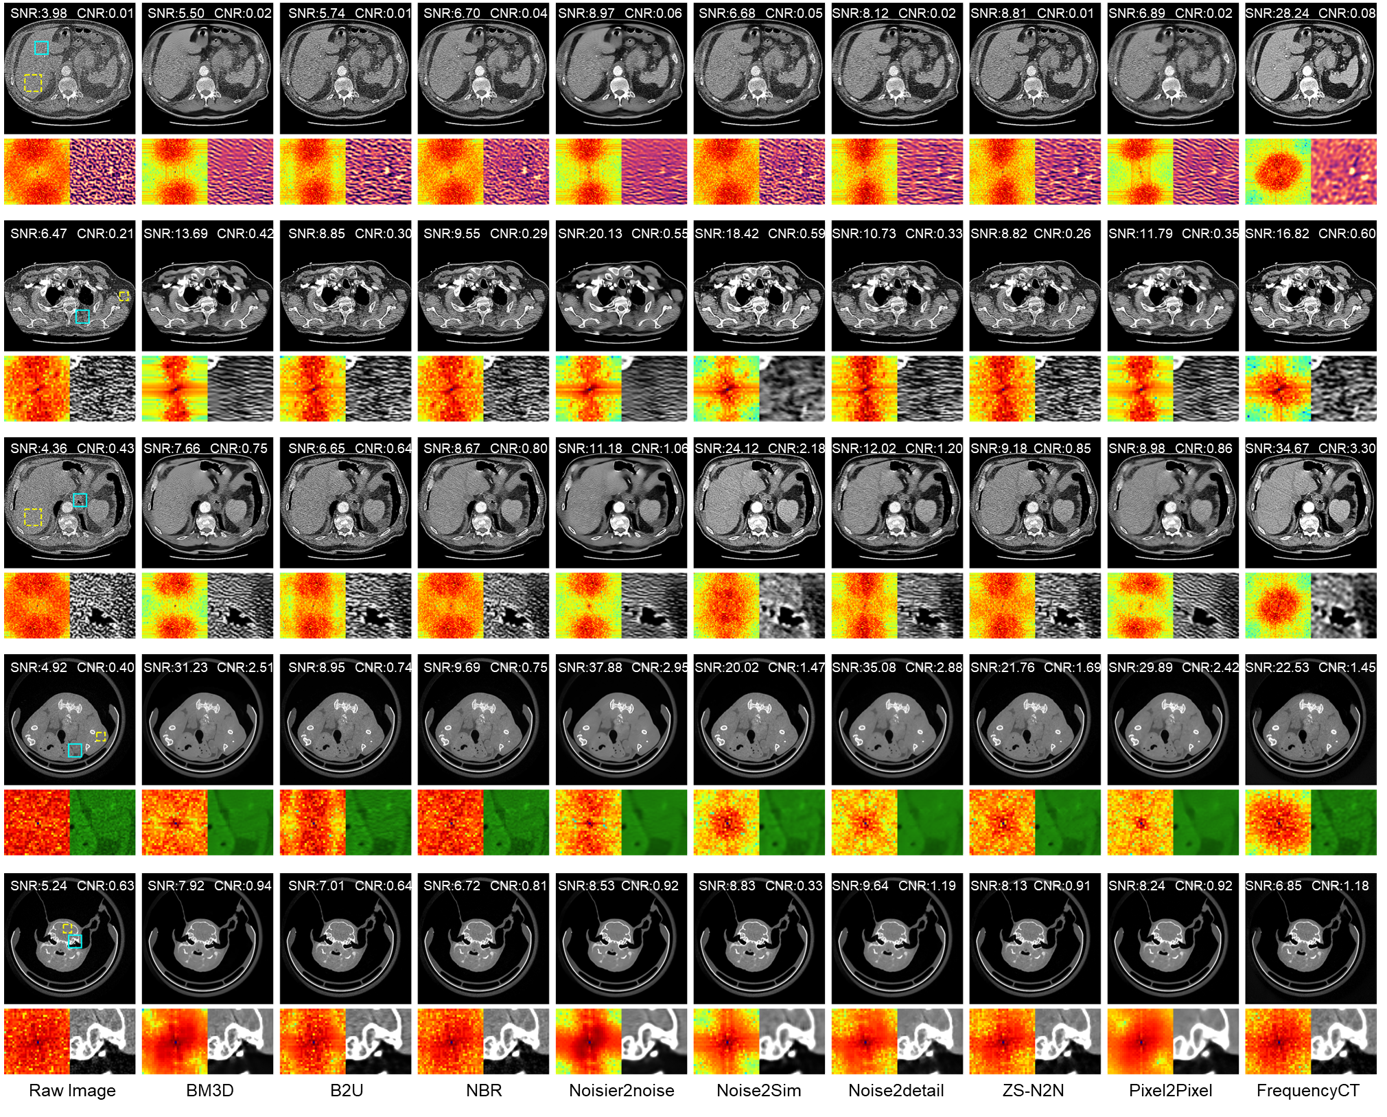
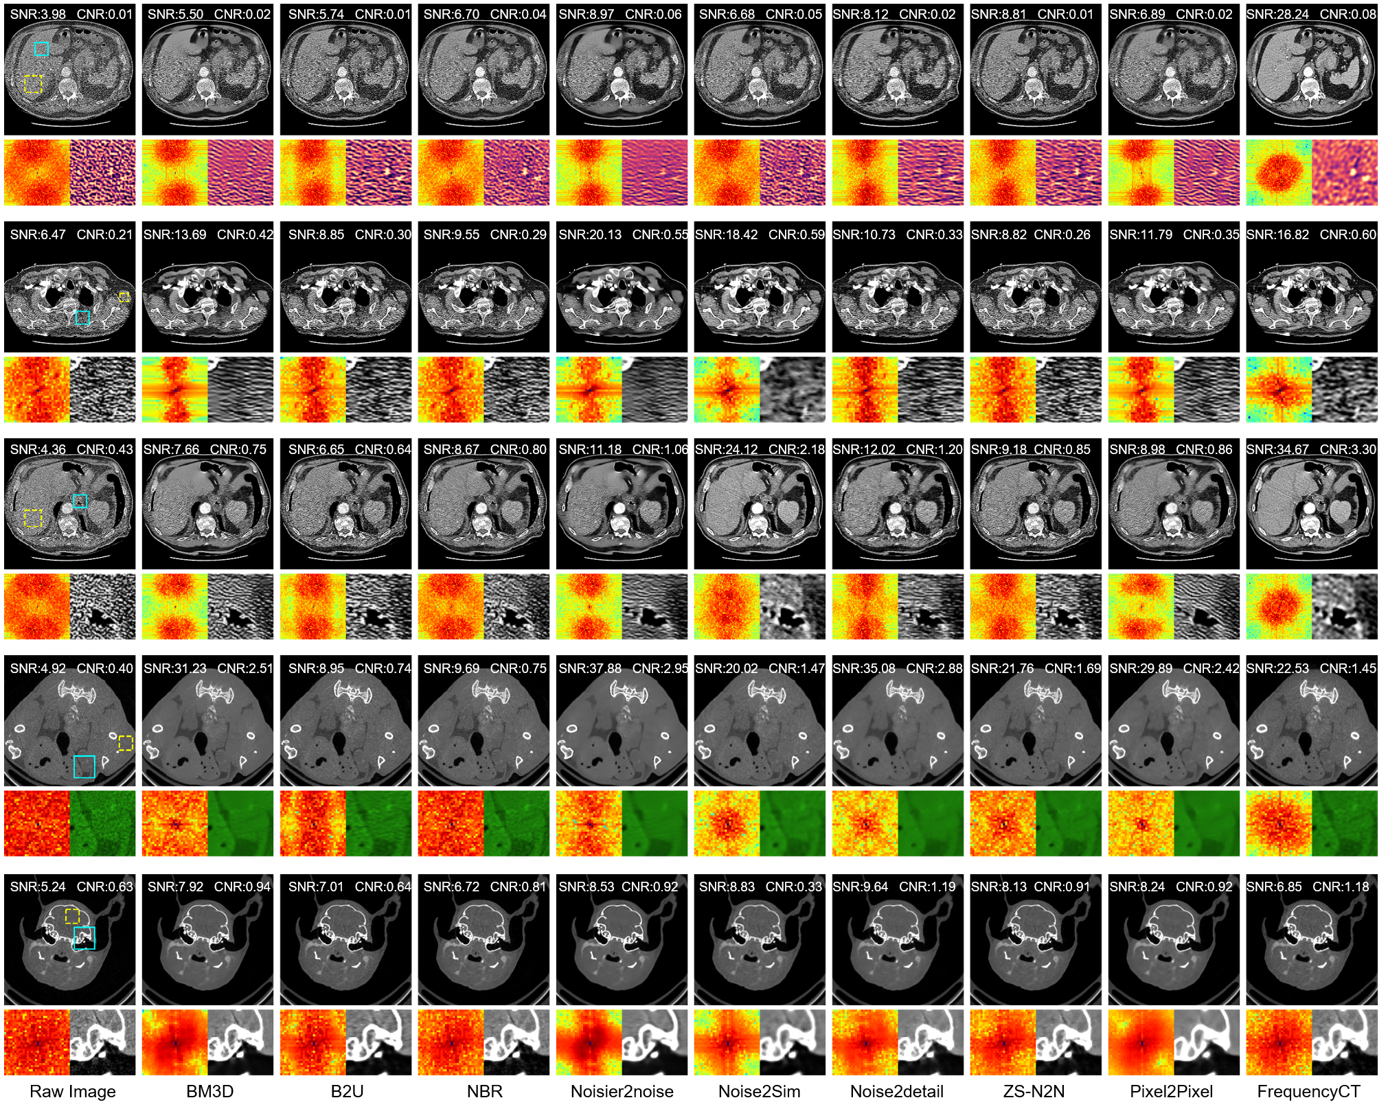
update-three

diff --git a/README.md b/README.md
@@ -6,7 +6,7 @@
 
 * The paper is under review.
 
-**Abstract** Despite extensive research on computed tomography (CT) denoising, few studies exploit projection-domain data characteristics to mitigate noise correlation. To bridge this gap, this work proposes FrequencyCT, the first zero-shot self-supervised method for pseudo-sample generation in the frequency domain for low-dose CT denoising. Specifically, by exploiting the distinct frequency-domain distributions of noise and true signal, a regional low-frequency anchoring technique is proposed. Applying phase-preserving noise and mask perturbations to the high-frequency region generates pseudo-samples for self-supervision. Driven by the exponential correlation between noise variance of noisy projections and the underlying true signal, consistent data truncation is applied to the generated samples to stabilize optimization gradients. Evaluation results on multiple public and real datasets confirm the clinical application potential of this research, which provides an innovative perspective for the field of denoising. The code is available at: \url{https://github.com/yqx7150/FrequencyCT}.
+**Abstract** 	Despite extensive research on computed tomography (CT) denoising, few studies exploit projection-domain data characteristics to mitigate noise correlation. To bridge this gap, this work proposes FrequencyCT, a novel zero-shot self-supervised method for pseudo-sample generation in the frequency domain for low-dose CT denoising. Specifically, by exploiting observed projection-domain spectral tendencies under low-dose acquisition, a regional low-frequency anchoring technique is proposed. Applying phase-preserving noise and mask perturbations to the high-frequency region generates pseudo-samples for self-supervision. Driven by the approximate exponential correlation between noise variance of noisy projections and the underlying true signal, consistent data truncation is applied to the generated samples to stabilize optimization gradients. Evaluation results on multiple public and real datasets confirm the application potential of this research, which provides an innovative perspective on pseudo-sample generation for the field of denoising. The code is available at: \url{https://github.com/yqx7150/FrequencyCT}.
 ## The training and Inference of FrequencyCT
 ![fig1](image/fig1.png) 
 ![fig2](image/fig2.png)
@@ -14,7 +14,7 @@
 ![fig3](image/fig3.png)
 ![fig4](image/fig4.png)
 
-The code will be uploaded soon.
+The code will be uploaded after the paper is accepted.
 ---
 
 ## Other Related Projects